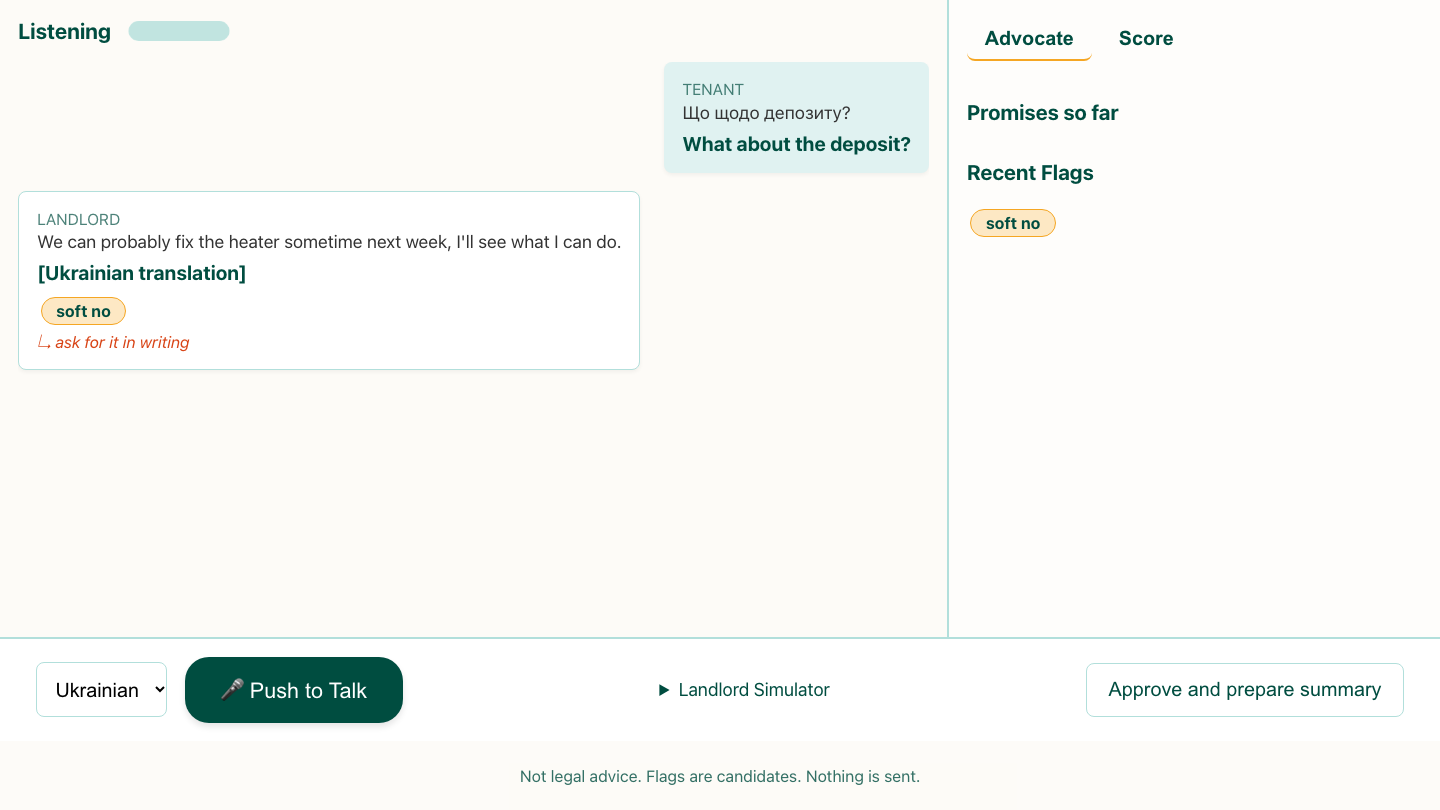
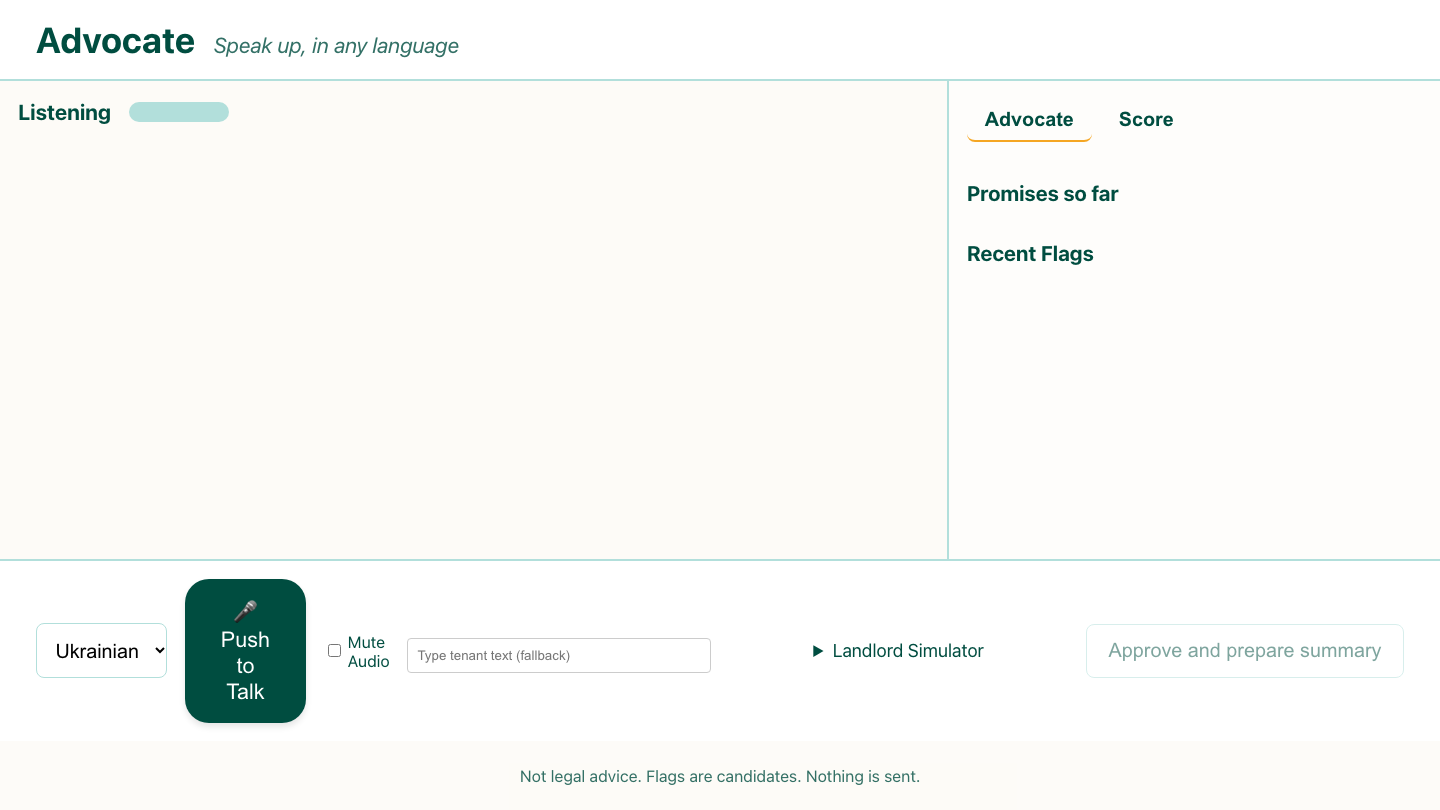
fix: script closing tag in mock loader

diff --git a/web/index.html b/web/index.html
@@ -7,7 +7,7 @@
   <link rel="stylesheet" href="style.css">
   <script>
     if (window.location.search.includes("mock=1")) {
-      document.write('<script src="mock.js"><\\/script>');
+      document.write('<script src="mock.js"><\/script>');
     }
   </script>
 </head>

diff --git a/backend/main.py b/backend/main.py
@@ -9,13 +9,17 @@ import contextlib
 import re
 import time
 from contextlib import AsyncExitStack
+from pathlib import Path
 from typing import Any
 
 from fastapi import FastAPI, HTTPException, WebSocket, WebSocketDisconnect
+from fastapi.middleware.cors import CORSMiddleware
+from fastapi.responses import FileResponse
+from fastapi.staticfiles import StaticFiles
 from google.genai import types
 from pydantic import BaseModel, Field
 
-from backend.ai import GeminiGateway, wav_to_pcm16k
+from backend.ai import GeminiGateway, call_with_service_retries, wav_to_pcm16k, wav_to_pcm24k
 
 
 LANGUAGE_RE = re.compile(r"^[A-Za-z]{2,3}(?:-[A-Za-z0-9]{2,8})*$")
@@ -24,6 +28,10 @@ MAX_BUFFERED_AUDIO_BYTES = 2_000_000
 MAX_TEXT_CHARS = 8_000
 LIVE_AUDIO_GRACE_SECONDS = 12.0
 FALLBACK_QUIET_SECONDS = 0.8
+REPO_ROOT = Path(__file__).resolve().parents[1]
+WEB_DIR = REPO_ROOT / "web"
+LANDLORD_LINES_PATH = REPO_ROOT / "data" / "landlord_lines.json"
+EVAL_RESULTS_PATH = REPO_ROOT / "eval" / "results.json"
 
 
 class LandlordSayRequest(BaseModel):
@@ -39,7 +47,7 @@ def validate_client_message(payload: Any) -> dict[str, Any]:
     if not isinstance(payload, dict) or not isinstance(payload.get("type"), str):
         raise ClientMessageError("Expected a JSON object with a message type.")
     kind = payload["type"]
-    if kind not in {"start", "audio", "landlord_text", "approve_summary", "stop"}:
+    if kind not in {"start", "audio", "landlord_text", "tenant_text", "approve_summary", "stop"}:
         raise ClientMessageError("Unsupported message type.")
     if kind == "start":
         language = payload.get("tenant_lang", "uk")
@@ -63,6 +71,10 @@ def validate_client_message(payload: Any) -> dict[str, Any]:
             raise ClientMessageError("Landlord line needs an ID under 80 characters.")
         if not isinstance(text, str) or not text.strip() or len(text) > MAX_TEXT_CHARS:
             raise ClientMessageError("Landlord line text is empty or too long.")
+    elif kind == "tenant_text":
+        text = payload.get("text")
+        if not isinstance(text, str) or not text.strip() or len(text) > MAX_TEXT_CHARS:
+            raise ClientMessageError("Tenant text is empty or too long.")
     return payload
 
 
@@ -83,6 +95,7 @@ class ConnectionState:
         self.tenant_lang = "uk"
         self.live_input_speaker = "tenant"
         self.pending_landlord_translation: asyncio.Future[str] | None = None
+        self.pending_tenant_translation: asyncio.Future[str] | None = None
         self.unconfirmed_live_audio = bytearray()
         self.fallback_audio = bytearray()
         self.last_fallback_audio_at = 0.0
@@ -127,6 +140,37 @@ hub = SessionHub()
 app = FastAPI(title="Advocate API", version="0.1.0")
 app.state.gateway = gateway
 app.state.hub = hub
+app.add_middleware(
+    CORSMiddleware,
+    allow_origin_regex=r"^http://(?:127\.0\.0\.1|localhost)(?::\d+)?$",
+    allow_methods=["GET", "HEAD", "OPTIONS", "POST"],
+    allow_headers=["*"],
+)
+
+
+@app.get("/")
+async def serve_frontend() -> FileResponse:
+    index = WEB_DIR / "index.html"
+    if not index.is_file():
+        raise HTTPException(status_code=404, detail="Frontend not found.")
+    return FileResponse(index)
+
+
+@app.get("/data/landlord_lines.json")
+async def serve_landlord_lines() -> FileResponse:
+    if not LANDLORD_LINES_PATH.is_file():
+        raise HTTPException(status_code=404, detail="Landlord lines not found.")
+    return FileResponse(LANDLORD_LINES_PATH, media_type="application/json")
+
+
+@app.get("/eval/results.json")
+async def serve_eval_results() -> FileResponse:
+    if not EVAL_RESULTS_PATH.is_file():
+        raise HTTPException(status_code=404, detail="Evaluation results not found.")
+    return FileResponse(EVAL_RESULTS_PATH, media_type="application/json")
+
+
+app.mount("/web", StaticFiles(directory=WEB_DIR), name="web")
 
 
 async def start_live_session(state: ConnectionState) -> None:
@@ -146,9 +190,14 @@ async def start_live_session(state: ConnectionState) -> None:
         ),
     }
     try:
-        connector = gateway.client.aio.live.connect(model=model, config=config)
-        state.live_session = await asyncio.wait_for(
-            state.exit_stack.enter_async_context(connector), timeout=12.0
+        state.live_session = await call_with_service_retries(
+            lambda: asyncio.wait_for(
+                state.exit_stack.enter_async_context(
+                    gateway.client.aio.live.connect(model=model, config=config)
+                ),
+                timeout=12.0,
+            ),
+            threaded=False,
         )
         state.live_reader = asyncio.create_task(read_live_session(state))
     except Exception:
@@ -190,20 +239,30 @@ async def read_live_session(state: ConnectionState) -> None:
                         confirm_live_audio(state)
                     to = "tenant" if input_speaker == "landlord" else "landlord"
                     await state.send({"type": "translation", "to": to, "text": translated})
-                    state.history.append({"speaker": "translation", "lang": state.tenant_lang, "text": translated})
+                    translation_lang = state.tenant_lang if input_speaker == "landlord" else "en"
+                    state.history.append({"speaker": "translation", "lang": translation_lang, "text": translated})
                     pending = state.pending_landlord_translation
                     if input_speaker == "landlord" and pending and not pending.done():
                         pending.set_result(translated)
+                    pending_tenant = state.pending_tenant_translation
+                    if input_speaker == "tenant" and pending_tenant and not pending_tenant.done():
+                        pending_tenant.set_result(translated)
 
             model_turn = getattr(content, "model_turn", None)
             for part in getattr(model_turn, "parts", []) or []:
                 inline_data = getattr(part, "inline_data", None)
                 data = getattr(inline_data, "data", None) if inline_data else None
                 if data:
-                    if isinstance(data, str):
-                        encoded = data
-                    else:
-                        encoded = base64.b64encode(data).decode("ascii")
+                    try:
+                        pcm_data = base64.b64decode(data, validate=True) if isinstance(data, str) else bytes(data)
+                        mime_type = (getattr(inline_data, "mime_type", "") or "").lower()
+                        if "wav" in mime_type or "wave" in mime_type:
+                            pcm_data = wav_to_pcm24k(pcm_data)
+                        if not pcm_data or len(pcm_data) % 2:
+                            continue
+                    except (ValueError, TypeError):
+                        continue
+                    encoded = base64.b64encode(pcm_data).decode("ascii")
                     await state.status("speaking")
                     await state.send({"type": "audio", "data": encoded})
 
@@ -219,6 +278,9 @@ async def read_live_session(state: ConnectionState) -> None:
         pending = state.pending_landlord_translation
         if pending and not pending.done():
             pending.set_exception(RuntimeError("Live translation unavailable"))
+        pending_tenant = state.pending_tenant_translation
+        if pending_tenant and not pending_tenant.done():
+            pending_tenant.set_exception(RuntimeError("Live translation unavailable"))
 
 
 def confirm_live_audio(state: ConnectionState) -> None:
@@ -350,6 +412,47 @@ async def send_landlord_line(
         await state.status("listening")
 
 
+async def send_tenant_text(state: ConnectionState, text: str) -> None:
+    """Treat typed tenant text as the transcript of tenant speech."""
+    async with state.command_lock:
+        state.summary_approved = False
+        state.history.append({"speaker": "tenant", "lang": state.tenant_lang, "text": text})
+        await state.status("thinking")
+        await state.send(
+            {"type": "transcript", "speaker": "tenant", "lang": state.tenant_lang, "text": text}
+        )
+
+        live_translation_received = False
+        if state.live_session is not None and not state.live_failed:
+            future = asyncio.get_running_loop().create_future()
+            state.pending_tenant_translation = future
+            state.live_input_speaker = "tenant"
+            try:
+                async with state.live_send_lock:
+                    await state.live_session.send_realtime_input(text=text)
+                await asyncio.wait_for(asyncio.shield(future), timeout=8.0)
+                live_translation_received = True
+            except Exception:
+                state.live_failed = True
+                state.live_session = None
+            finally:
+                state.pending_tenant_translation = None
+                state.live_input_speaker = "tenant"
+
+        if not live_translation_received:
+            translation = (
+                text
+                if state.tenant_lang == "en"
+                else await gateway.translate_tenant_text(text, state.tenant_lang)
+            )
+            if translation:
+                await state.send({"type": "translation", "to": "landlord", "text": translation})
+                state.history.append({"speaker": "translation", "lang": "en", "text": translation})
+            else:
+                await state.error("Typed tenant text could not be translated right now.")
+        await state.status("listening")
+
+
 @app.get("/health")
 async def health() -> dict[str, bool]:
     return {"ok": True, "live": gateway.key_present}
@@ -422,6 +525,11 @@ async def websocket_session(websocket: WebSocket) -> None:
                     await state.error("Start a session before sending landlord lines.")
                     continue
                 await send_landlord_line(state, payload["id"], payload["text"])
+            elif kind == "tenant_text":
+                if not state.started:
+                    await state.error("Start a session before sending tenant text.")
+                    continue
+                await send_tenant_text(state, payload["text"])
             elif kind == "approve_summary":
                 if not state.started or not state.history:
                     await state.error("There is no conversation to summarize yet.")
